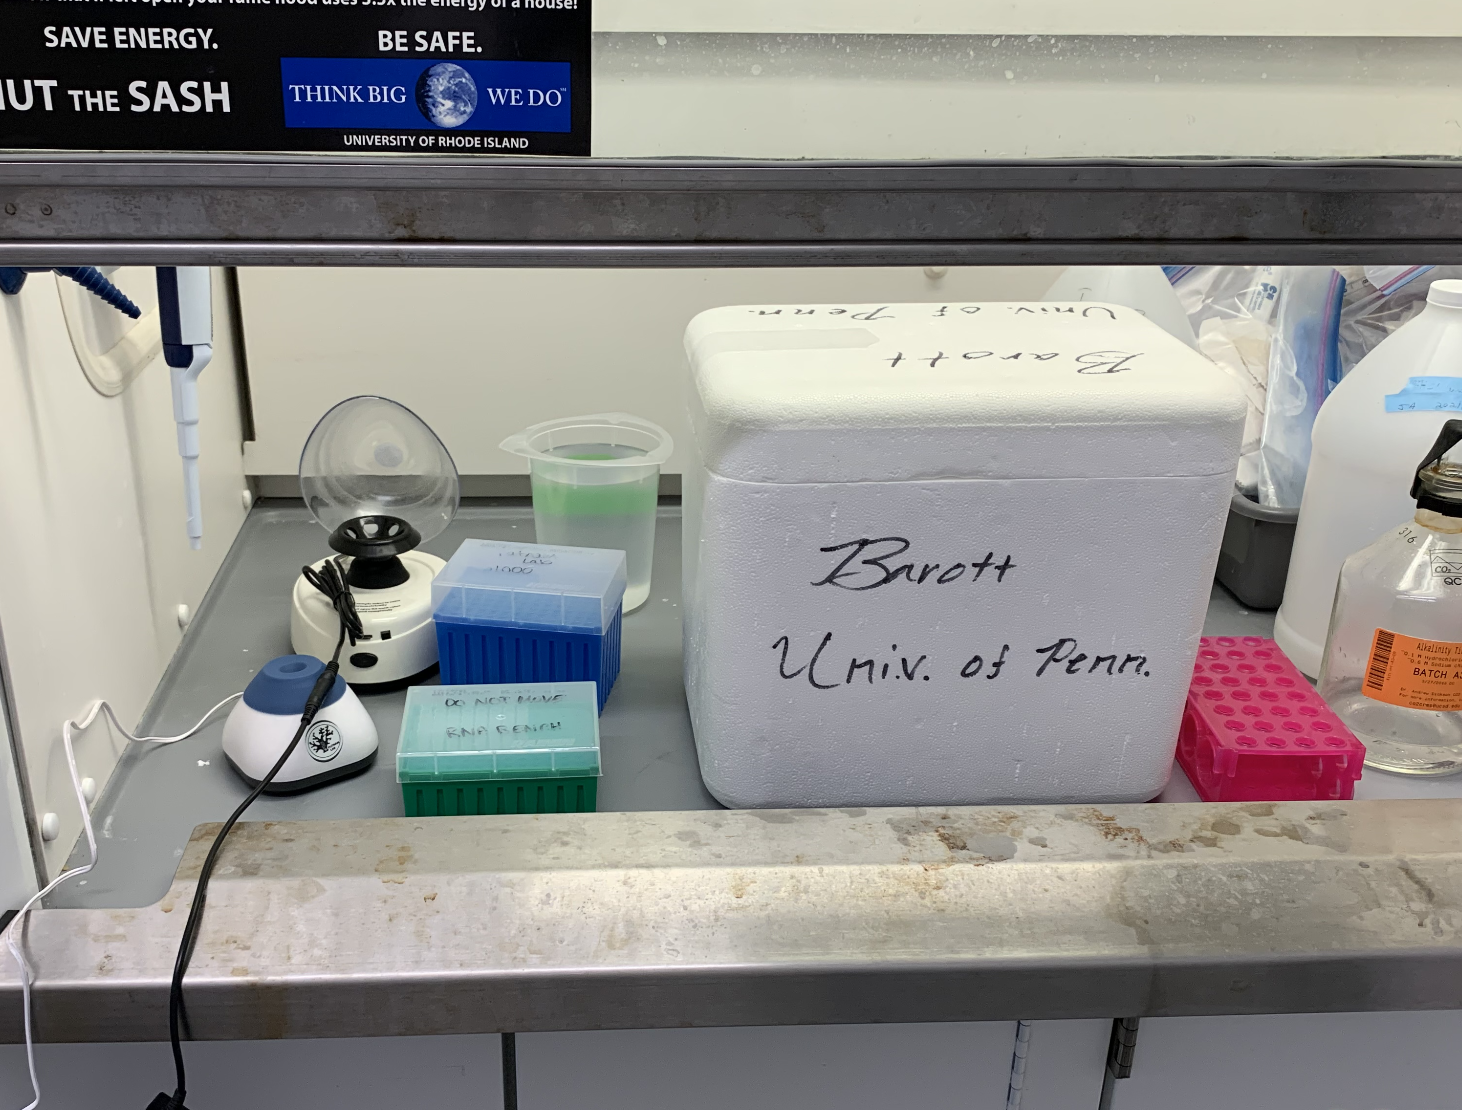
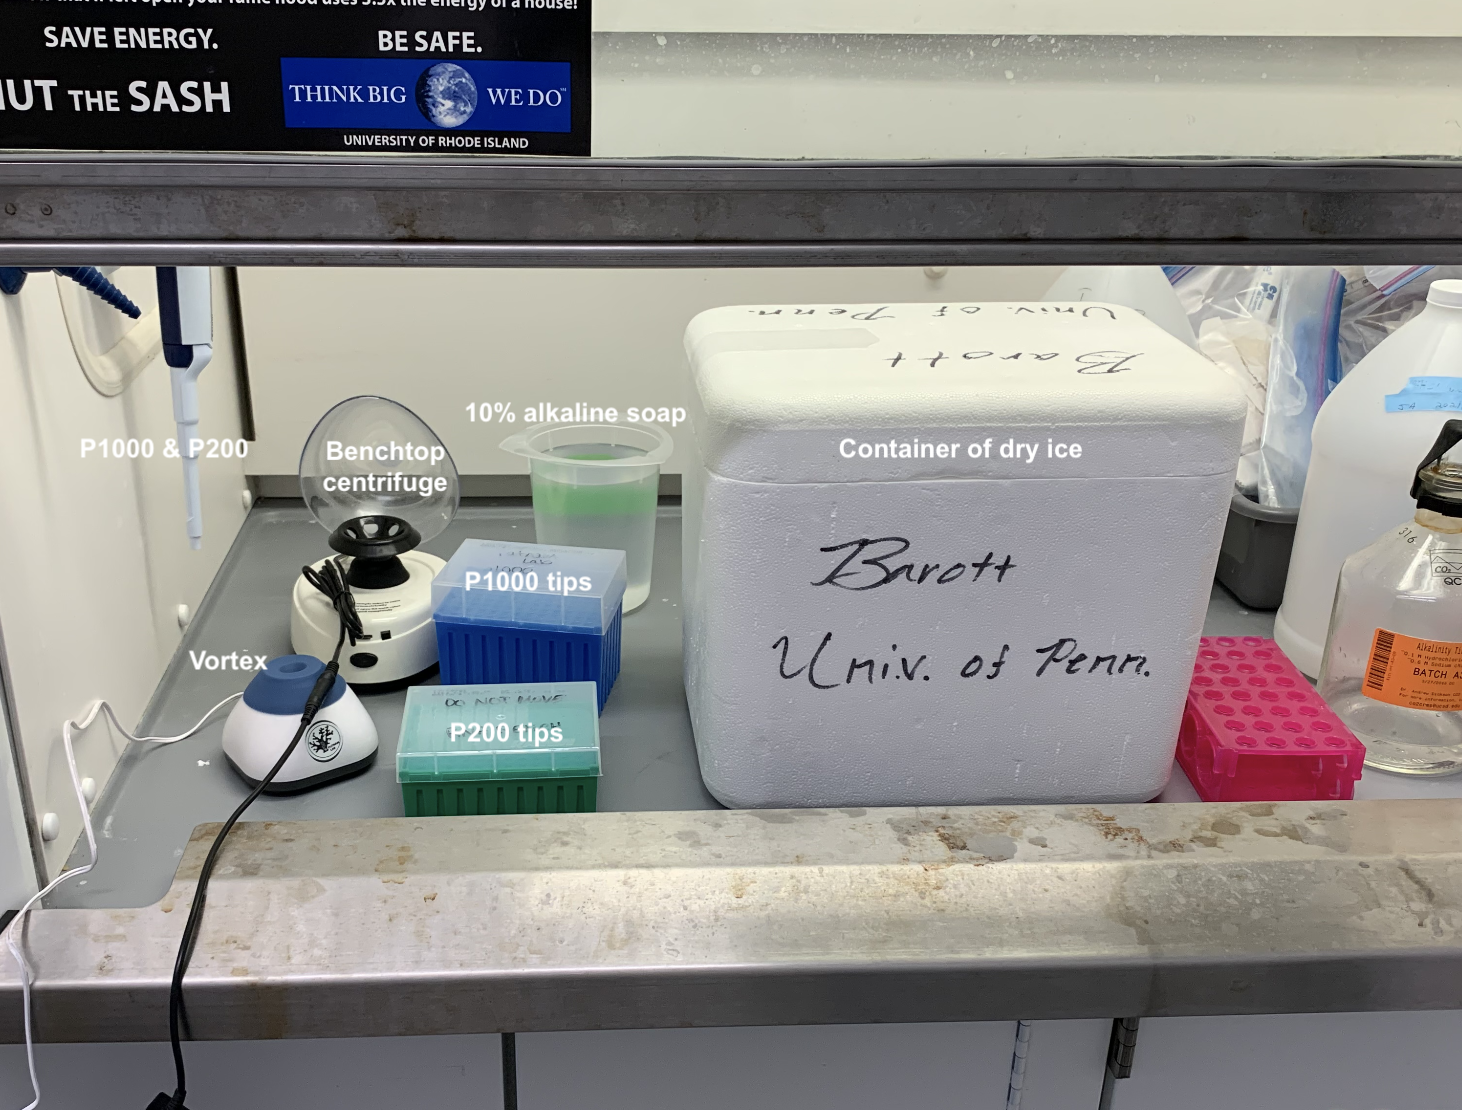
metabolomic extraction pics

diff --git a/_posts/2023-01-17-MetabolomicsExtractions.md b/_posts/2023-01-17-MetabolomicsExtractions.md
@@ -33,6 +33,7 @@ The samples used in this extraction are from A. Huffmyer's 2021 *M. capitata* la
 * 10% bleach 
 * 70% ethanol 
 * DI water 
+* Alkaline soap
 
 ##### Prior to extractions, autoclave all glassware. 
 
@@ -105,10 +106,14 @@ Autosampler vials:
 4. Add sample to ice cold dounce with 500 uL of ice cold extraction buffer. Record how much sample volume is added to dounce. Pipette up/down to make sure all host material is removed from tube. 
 5. Let sample sit on dry ice for 5 minutes. 
 6. Homogenize sample on dry ice for 1 minute with the dounce. 
+	- The sample may freeze over the 5 minutes. If that happens, continue to dounce until it unfreezes then start the 1 minute homogenization.
+	- After homogenization, put glassware in a cup of 10% alkaline soap.
 7. Transfer extract to new 1.5 mL tube (Tube #-Host-A).
 8. Centrifuge for 10 minutes at 15,000g at 4&deg;C.
 9. Remove 500 uL of the supernatent to new 1.5 mL tube (Tube #-Host-B).
 10. Add 44 uL of 15% ammonium bicarbonate. Vortex and spin down in bench-top centrifuge.
 11. Add 100 uL from Tube B into duplicate labeled autosampler vials (#-Host-A and #-Host-B).
 12. Store the two 1.5 mL extract tubes (A & B) and the two autosampler vials at -80&deg;C in the "Post-extraction" freezer box.
-13. Clean equipment with 10% bleach, 70% ethanol and DI water between every sample. Autoclave all dounces and glassware for next extraction/next day. 
+13. Clean equipment with 10% bleach, 70% ethanol and DI water between every sample. Rinse the dounces with water. Autoclave all dounces and glassware for next extraction/next day. 
+
+Pictures of extraction set-up
